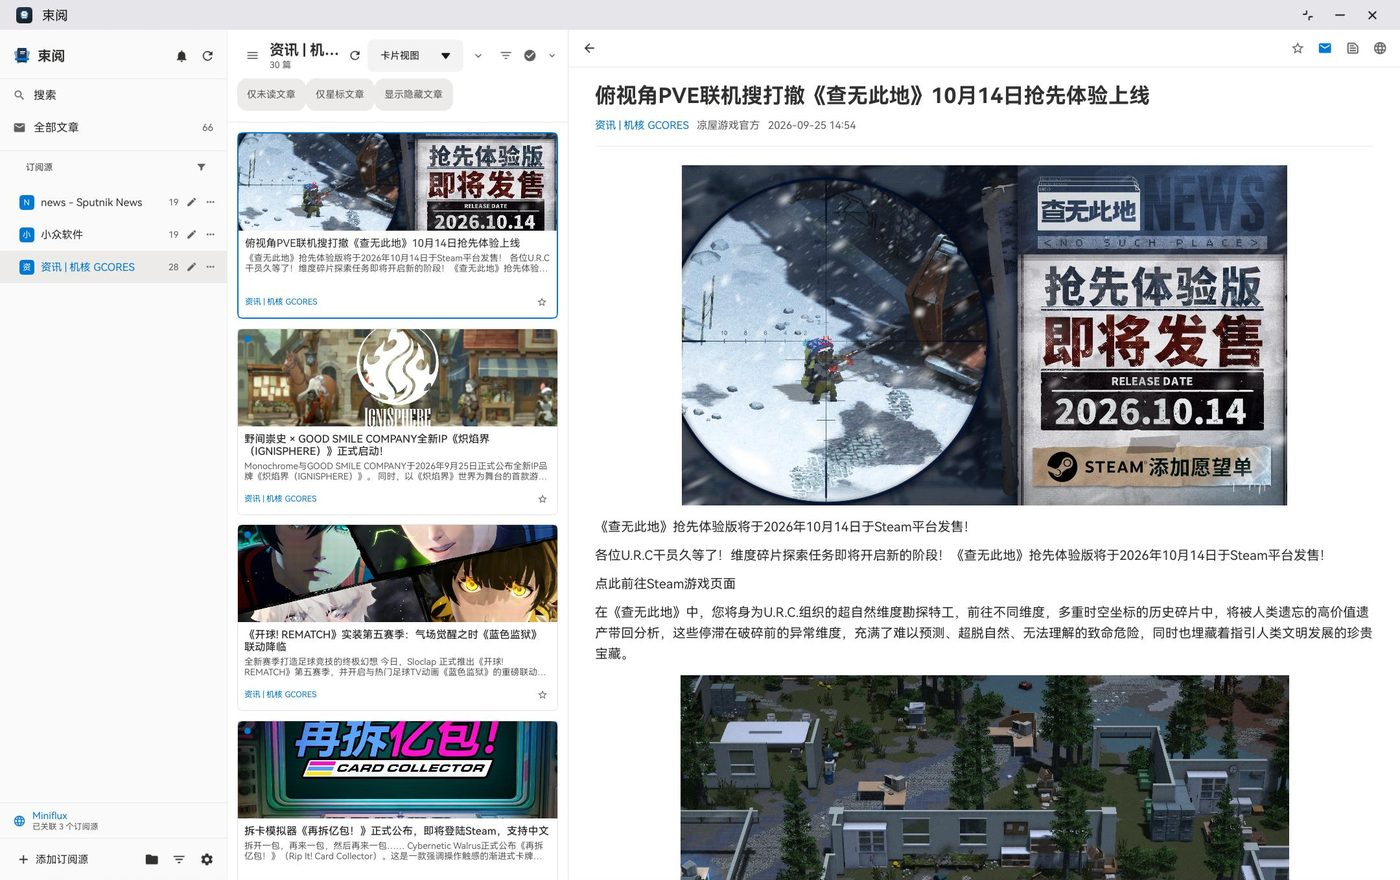
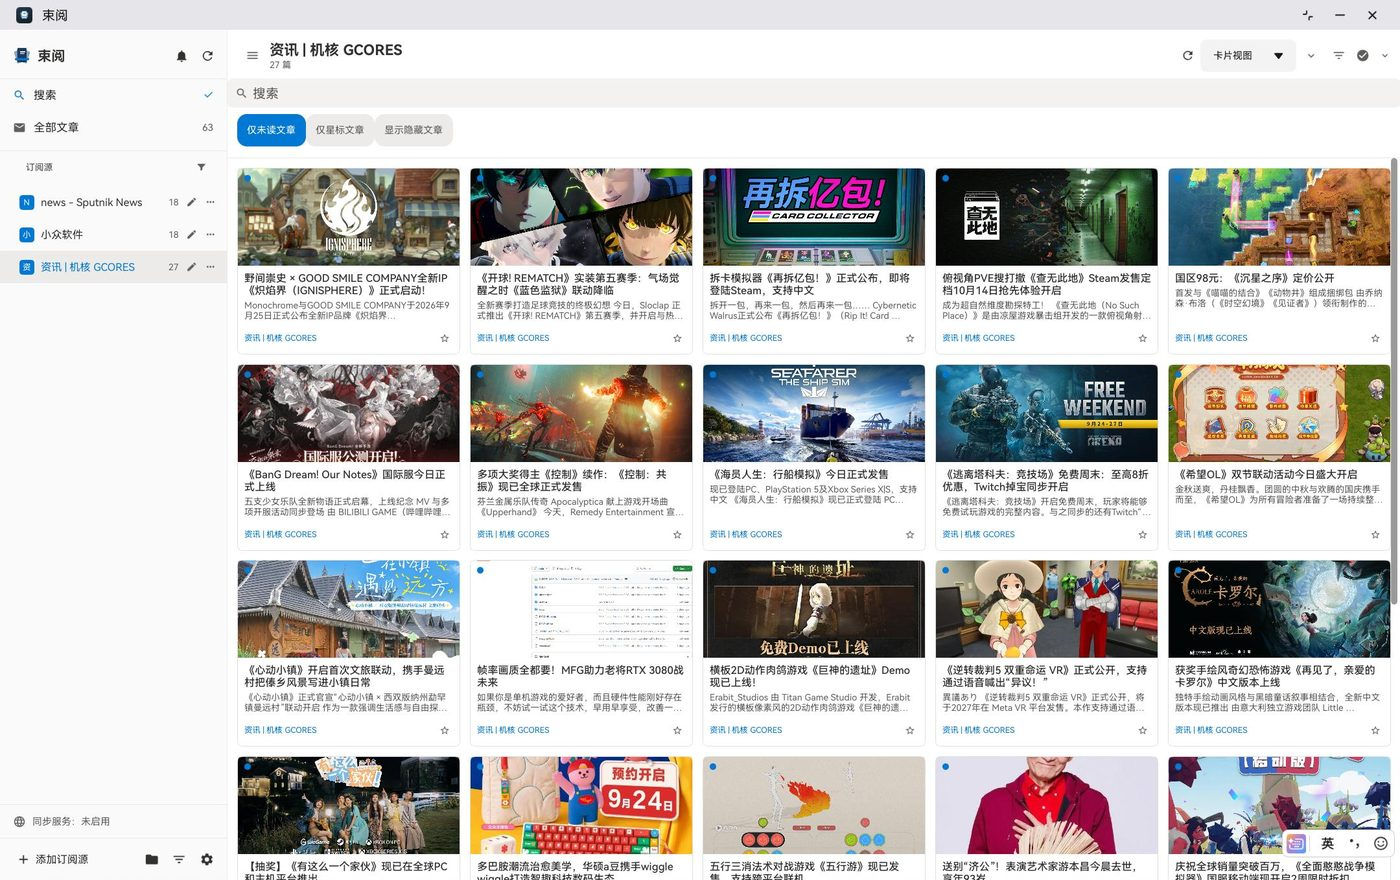
docs: show the card view at its full width
The card grid only has room to be a grid when no article is open: with
the reader visible the list pane is a fixed-width column and the cards
stack in a single narrow strip. 09-cards now uses the emulator's current
screen - no article selected - so the list takes the whole pane and the
cards lay out five across.

diff --git a/README.md b/README.md
@@ -39,7 +39,7 @@
 | 主界面 | 卡片视图 | 正则搜索 |
 |---|---|---|
 | <img src="docs/images/01-main.jpeg" width="230"> | <img src="docs/images/09-cards.jpeg" width="230"> | <img src="docs/images/08-search.jpeg" width="230"> |
-| 侧栏 + 列表 + 阅读器（三栏） | 5 种布局之一 | 标题正则 `[软游]` 命中 9 篇 |
+| 侧栏 + 列表 + 阅读器（三栏） | 卡片视图（未开阅读器时全宽多列） | 标题正则 `[软游]` 命中 9 篇 |
 
 | 文章菜单 | 视图菜单 | 规则引擎 |
 |---|---|---|
